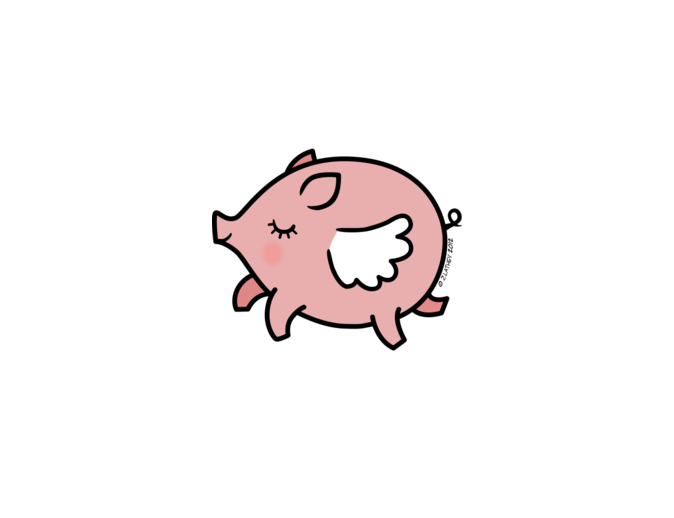
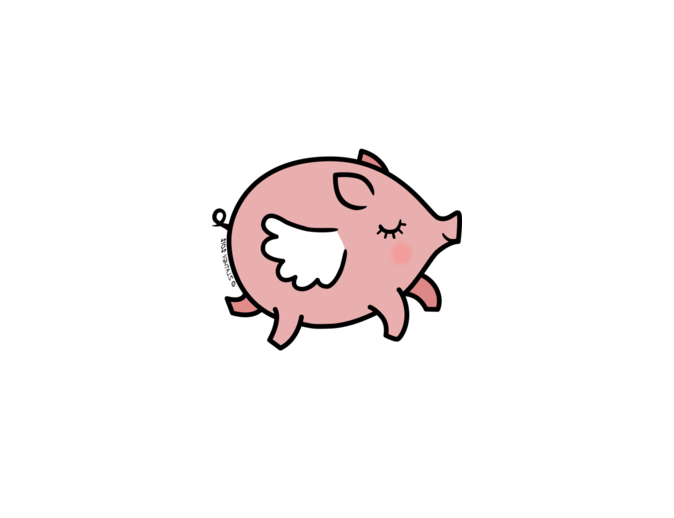
pig is flying

Changed region(s): [[0.3116, 0.278, 0.6855, 0.6795]]

diff --git a/browser/components/Timer.jsx b/browser/components/Timer.jsx
@@ -1,24 +1,20 @@
 import React, { Component } from 'react';
 
+import {connect} from 'react-redux';
+import {countdown} from '../reducers/timer';
+
+const mapStateToProps = state => ({
+  secondsRemaining: state.timer.secondsRemaining
+});
+
+const mapDispatchToProps = dispatch => ({
+  countdown: () => dispatch(countdown())
+});
+
 class Timer extends Component {
-  constructor(props) {
-    super(props);
-    this.state = {
-      secondsRemaining: 90,
-    };
-    this.countDown = this.countDown.bind(this);
-  }
-
-  countDown() {
-    this.setState({secondsRemaining: this.state.secondsRemaining - 1});
-  }
-
-  componentWillMount() {
-    this.setState({secondsRemaining: this.props.seconds});
-  }
 
   componentDidMount() {
-    this.interval = setInterval(this.countDown, 1000);
+    this.interval = setInterval(this.props.countdown, 1000);
   }
 
   componentWillUnmount() {
@@ -32,7 +28,11 @@ class Timer extends Component {
         {this.props.secondsRemaining > 0 ?
           <div id="countdown-timer">
             <h2>Finish your drawings before time runs out!</h2>
-            <h1 id="show-seconds">{this.props.secondsRemaining}</h1>
+            <div id="show-seconds">
+              <h1>{this.props.secondsRemaining}</h1>
+            </div>
+            <div id="floating-pig">
+            </div>
           </div>
           : <h1>TIME IS UP! SUBMIT ALL DRAWINGS!</h1>
         }
@@ -41,4 +41,4 @@ class Timer extends Component {
   }
 }
 
-export default Timer;
+export default connect(mapStateToProps, mapDispatchToProps)(Timer);

diff --git a/public/style.css b/public/style.css
@@ -78,16 +78,21 @@ body {
 }
 
 @keyframes animatePigTimer {
-  from {background-position: -20px 400px}
-  to {background-position: 105% 400px}
+  from {background-position: -100px center}
+  to {background-position: 105% center}
 }
 
-#countdown-timer {
+#floating-pig {
+  height: 200px;
+  justify-content: center;
   background-image: url(/images/cute_flying_pig.png);
+  background-size: 35%;
+  background-repeat: no-repeat;
 
-  animation: animatePigTimer 90s linear;
+  animation: animatePigTimer 60s linear;
 }
 
 #show-seconds {
-  animation: animatePigTimer 90s linear;
+  font-size: 50px;
+  animation: animatePigTimer 60s linear;
 }

diff --git a/browser/reducers/timer.jsx b/browser/reducers/timer.jsx
@@ -1,10 +1,10 @@
-const timer = {secondsRemaining: 90};
+const timer = {secondsRemaining: 60};
 
 //constants
-const COUNTDOWN = 'COUNTDOWN'
+const COUNTDOWN = 'COUNTDOWN';
 
 //reducer
-const TimerReducer = (prevState = timer, action) {
+const TimerReducer = (prevState = timer, action) => {
   const newState = Object.assign({}, prevState);
 
   switch (action.type) {
@@ -15,10 +15,10 @@ const TimerReducer = (prevState = timer, action) {
       return prevState;
   }
   return newState;
-}
+};
 
 export const countdown = () => ({
   type: COUNTDOWN,
-})
+});
 
 export default TimerReducer;
